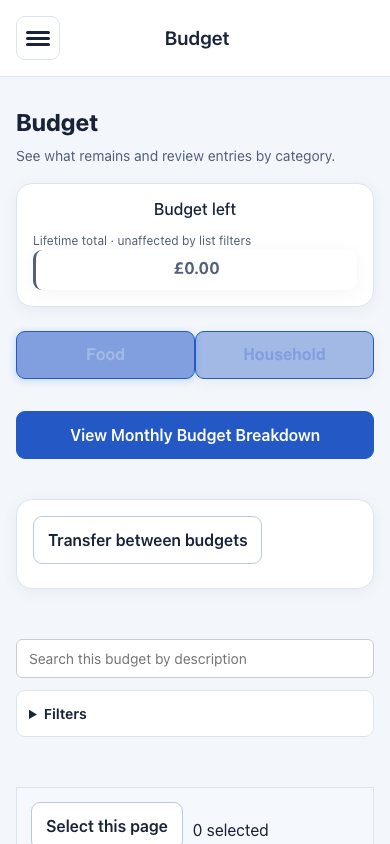
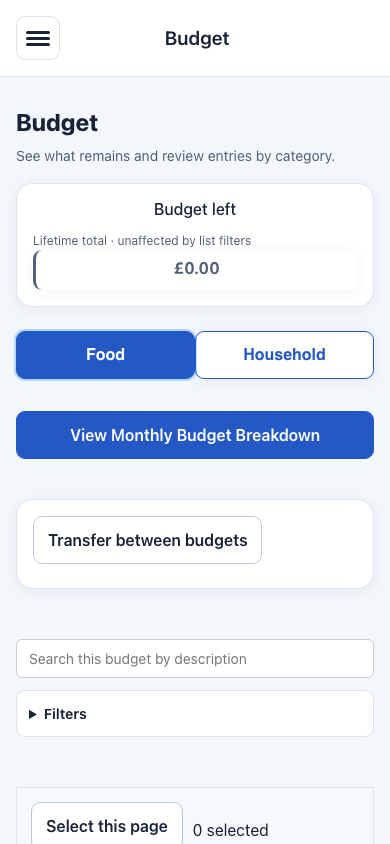
Capture settled Budget collapse defaults

Changed region(s): [[0.0308, 0.3697, 0.9538, 0.4621]]

diff --git a/src/e2e/budget-transfers.spec.ts b/src/e2e/budget-transfers.spec.ts
@@ -135,8 +135,16 @@ test("create, review counterpart and delete a transfer pair", async ({
 	await expect(page.getByLabel("From budget")).toHaveCount(0);
 	await expect(filters.locator("details")).toHaveJSProperty("open", false);
 	await expect(filters.getByLabel("Date from (UTC)")).toBeHidden();
+	await expect(
+		page.getByRole("radio", { name: "Food", exact: true }),
+	).toBeEnabled();
+	await expect(
+		page.getByRole("radio", { name: "Household", exact: true }),
+	).toBeEnabled();
+	await expect(page.getByTestId("loader")).toHaveCount(0);
 	await page.screenshot({
 		path: path.join(dir, `${prefix}-collapsed-overview.png`),
+		animations: "disabled",
 	});
 	await filters.locator("summary").focus();
 	await page.keyboard.press("Enter");
